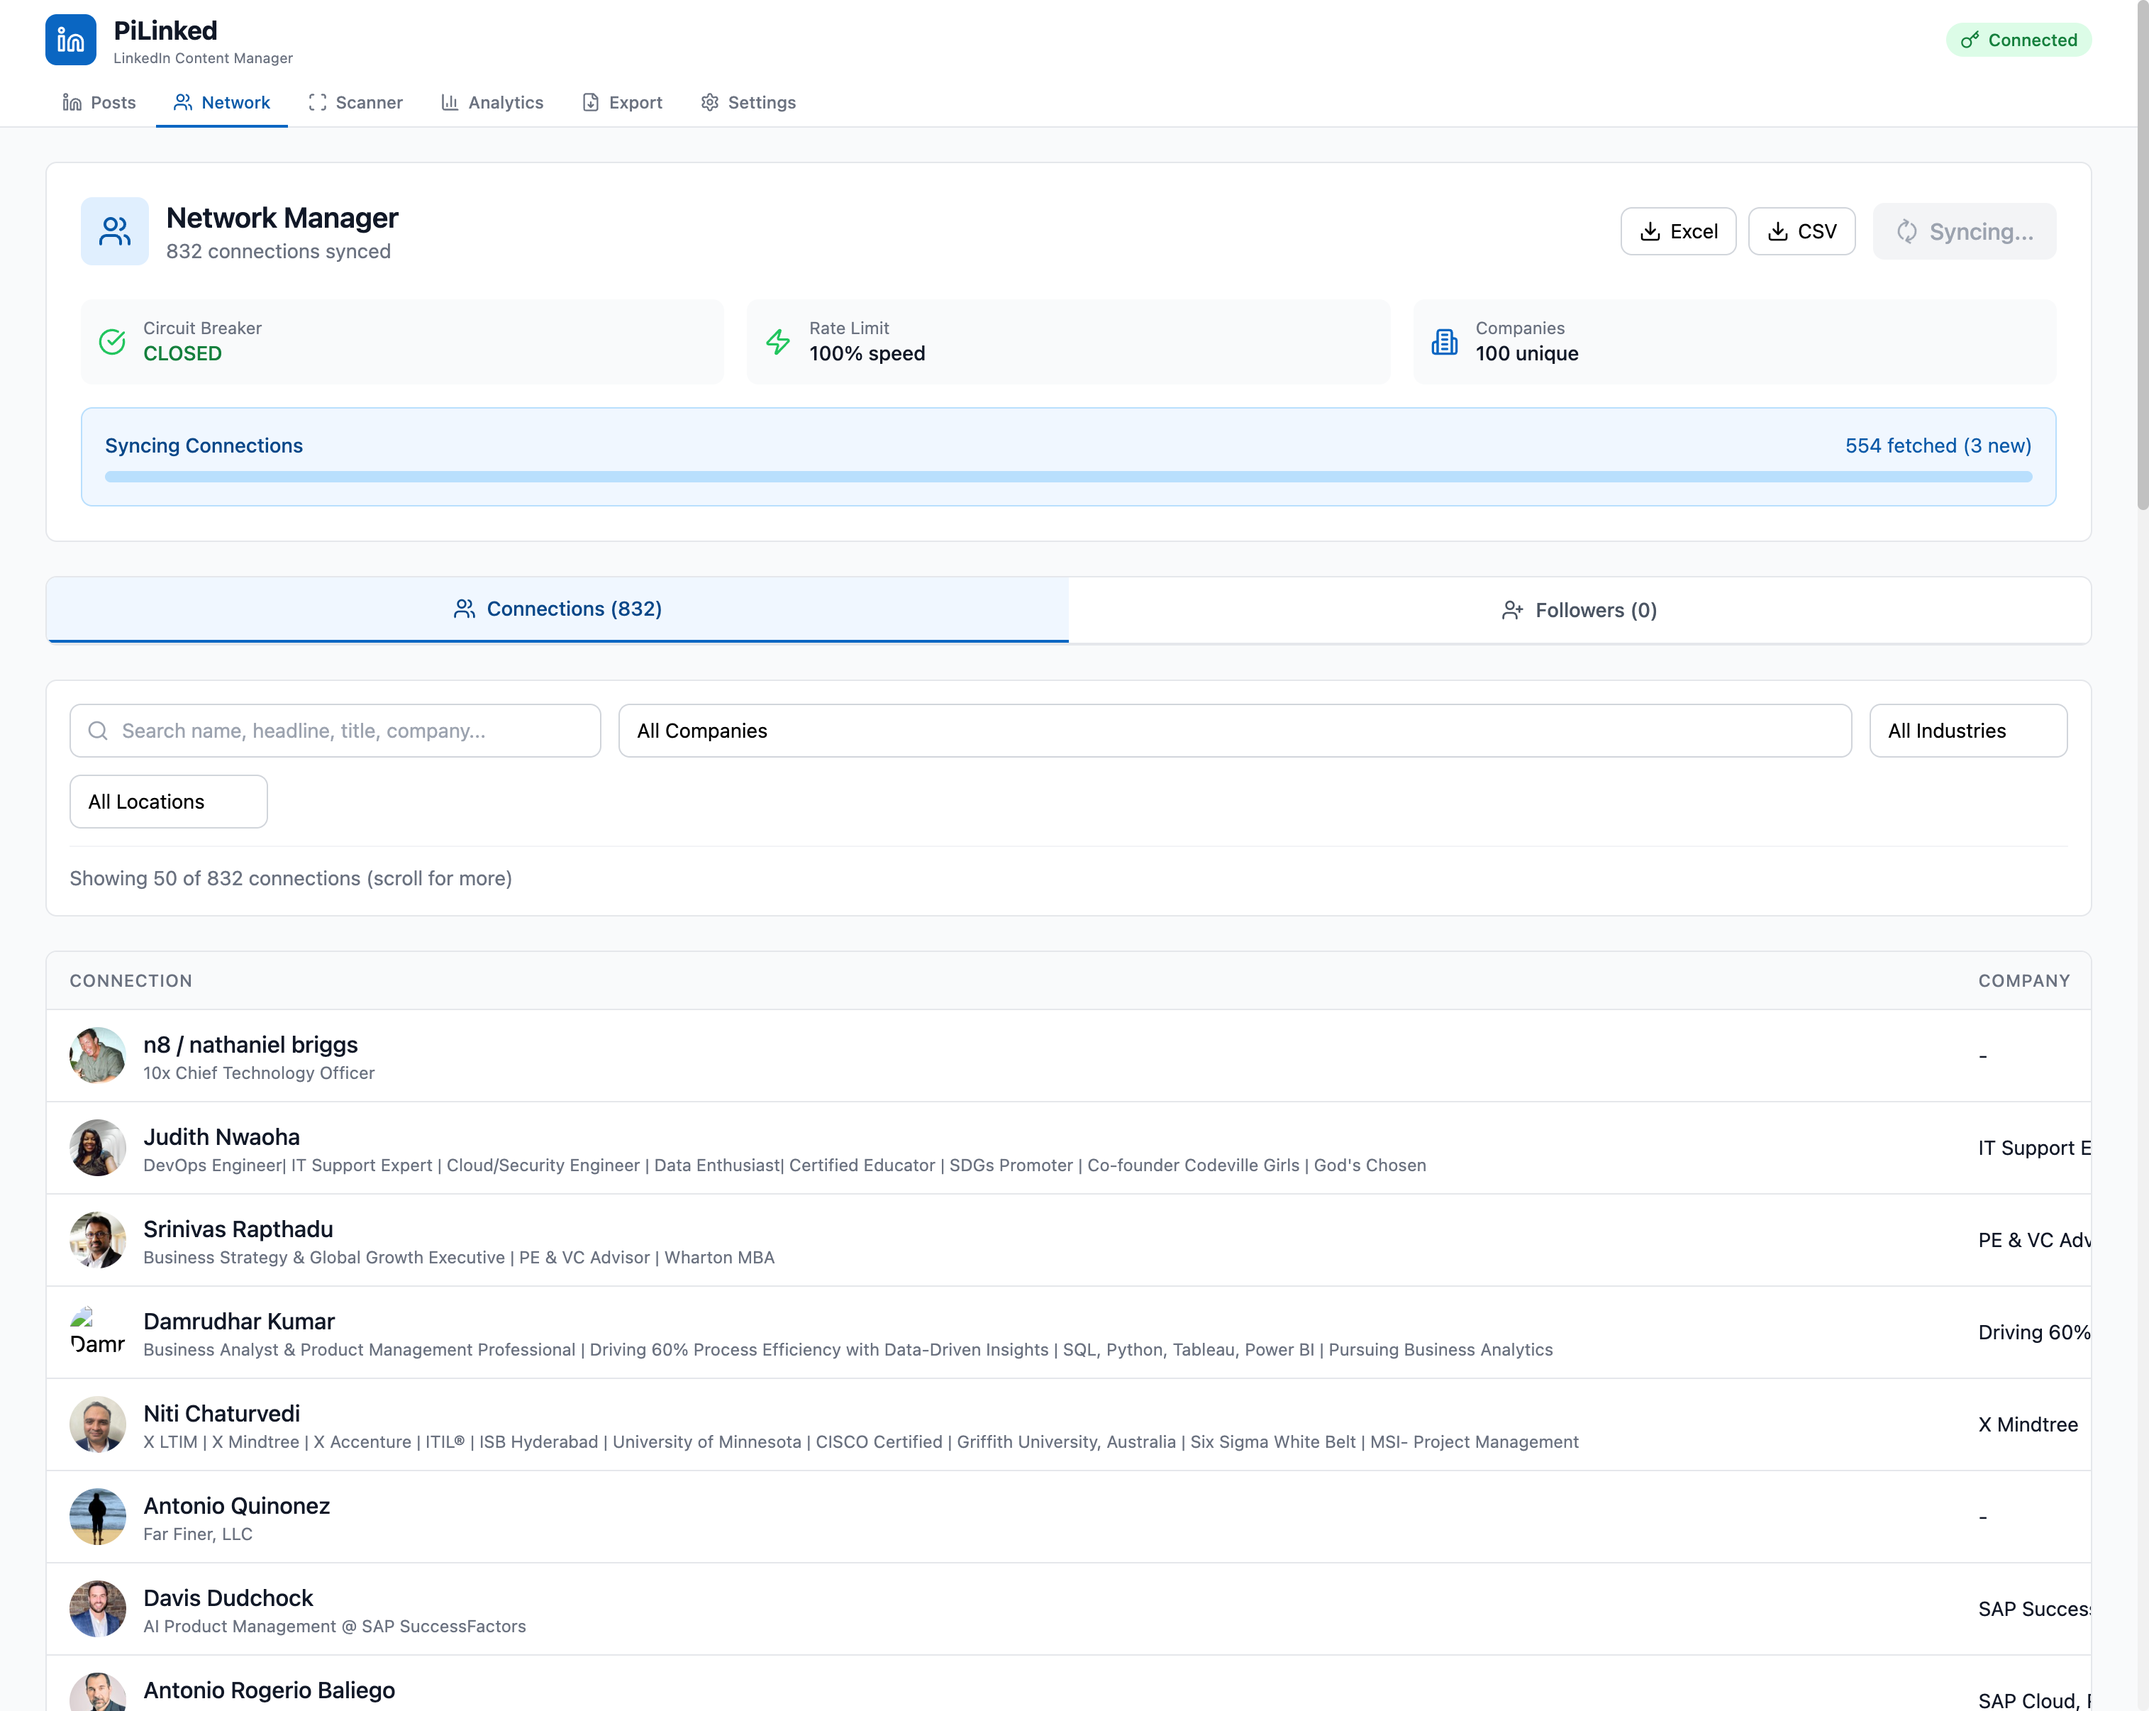
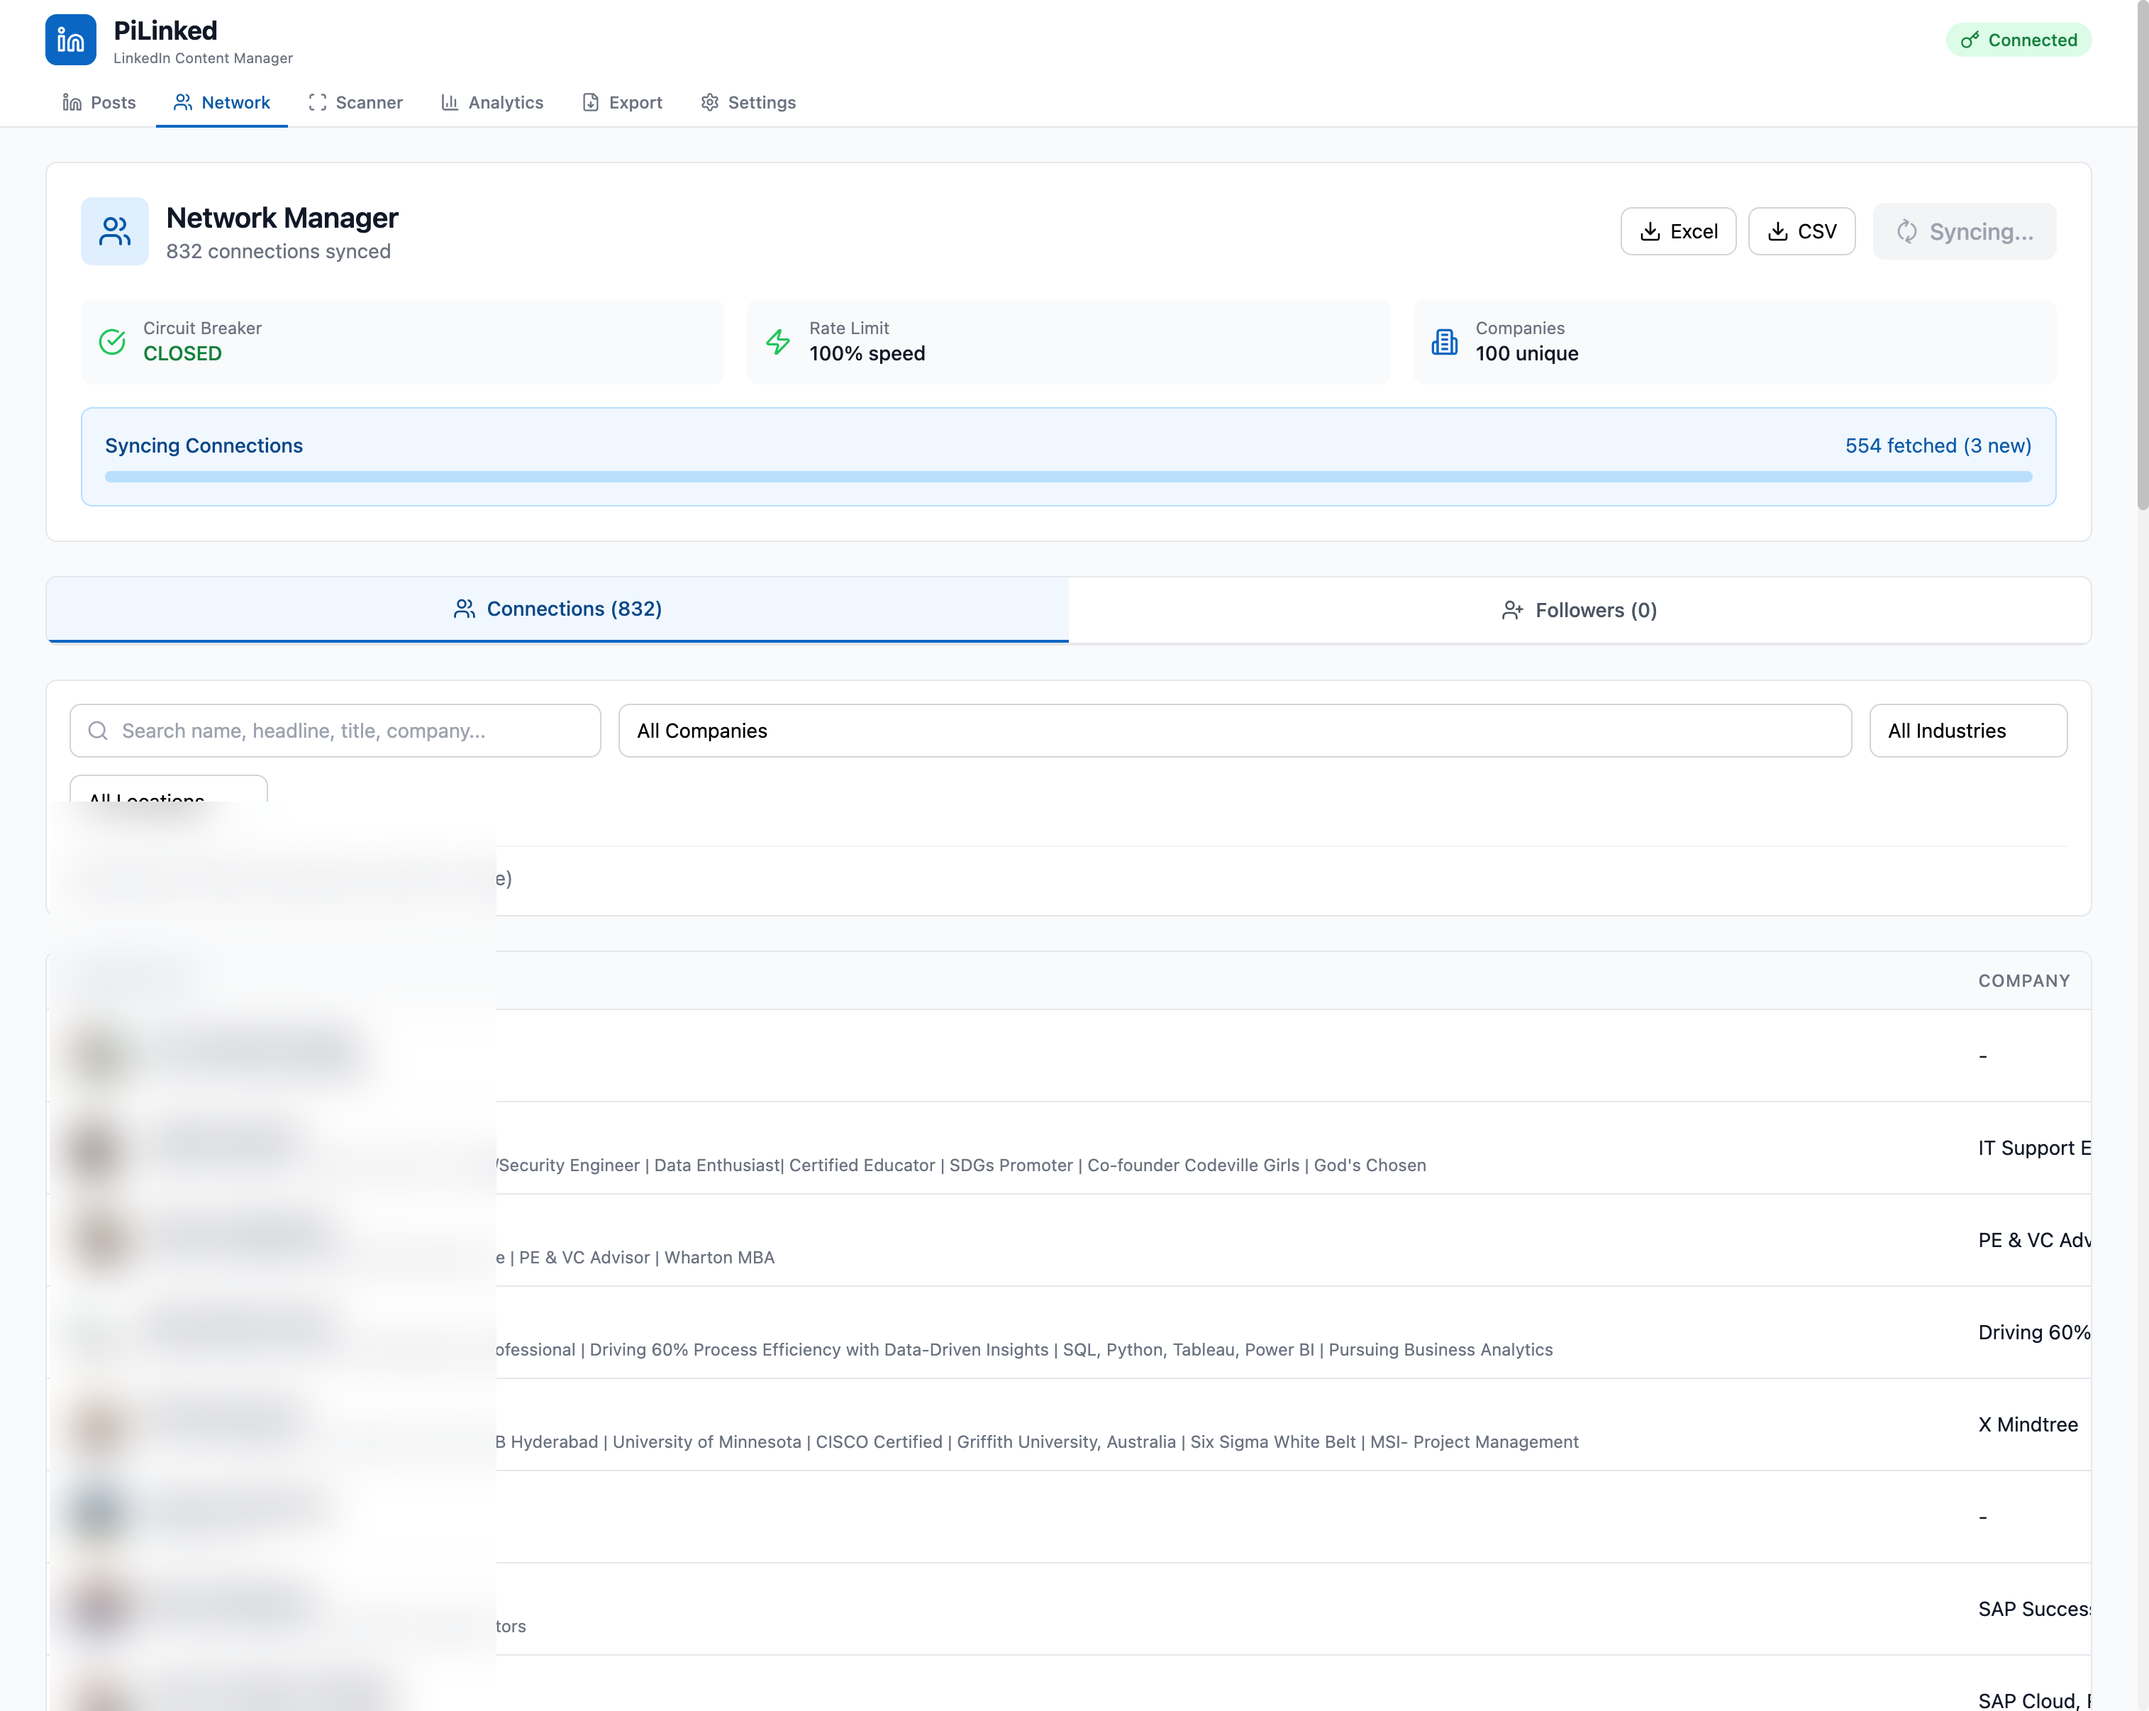
Blur connection photos for privacy, add WIP disclaimer
- Blur profile photos and names in network-connections.png
- Add "Work In Progress" badge to README
- Add note that source code is not public yet with contact info

🤖 Generated with [Claude Code](https://claude.com/claude-code)

Changed region(s): [[0.0, 0.5597, 0.1861, 1.0], [0.031, 0.4664, 0.0931, 0.5286], [0.1241, 0.4975, 0.1551, 0.5286]]

diff --git a/README.md b/README.md
@@ -4,6 +4,9 @@
 ![React](https://img.shields.io/badge/React-18.x-61DAFB.svg)
 ![Node.js](https://img.shields.io/badge/Node.js-18%2B-green.svg)
 ![License](https://img.shields.io/badge/License-MIT-yellow.svg)
+![Status](https://img.shields.io/badge/Status-Work%20In%20Progress-orange.svg)
+
+> **Note:** This project is currently a work in progress. The source code is not publicly available at this time. If you're interested in the code, collaboration, or have questions, please reach out to me on [LinkedIn](https://linkedin.com/in/anthonyrhopkins).
 
 ## Table of Contents
 
